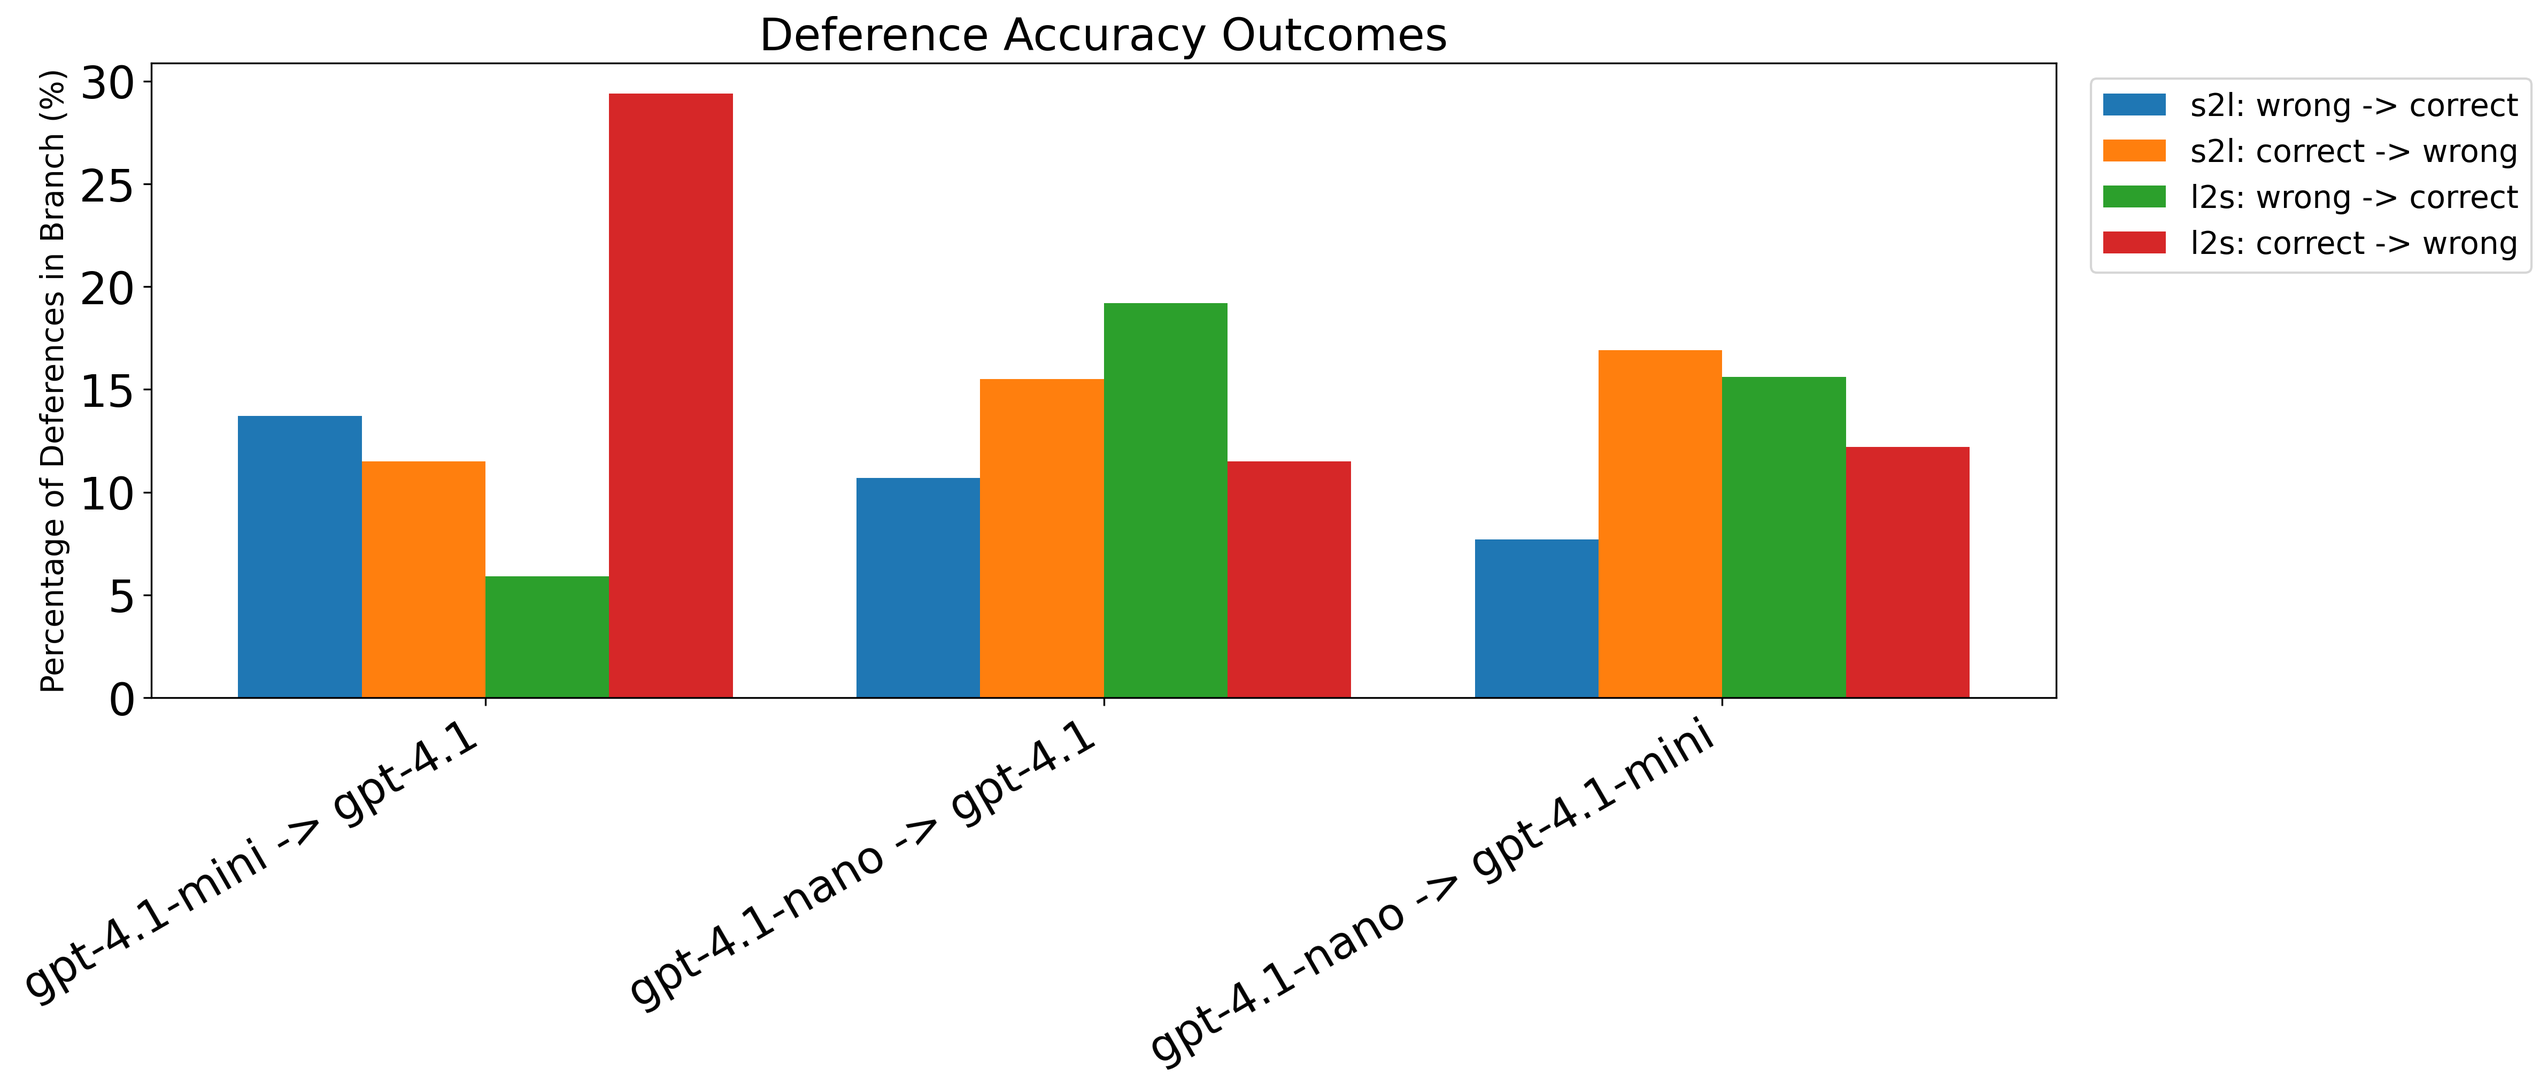
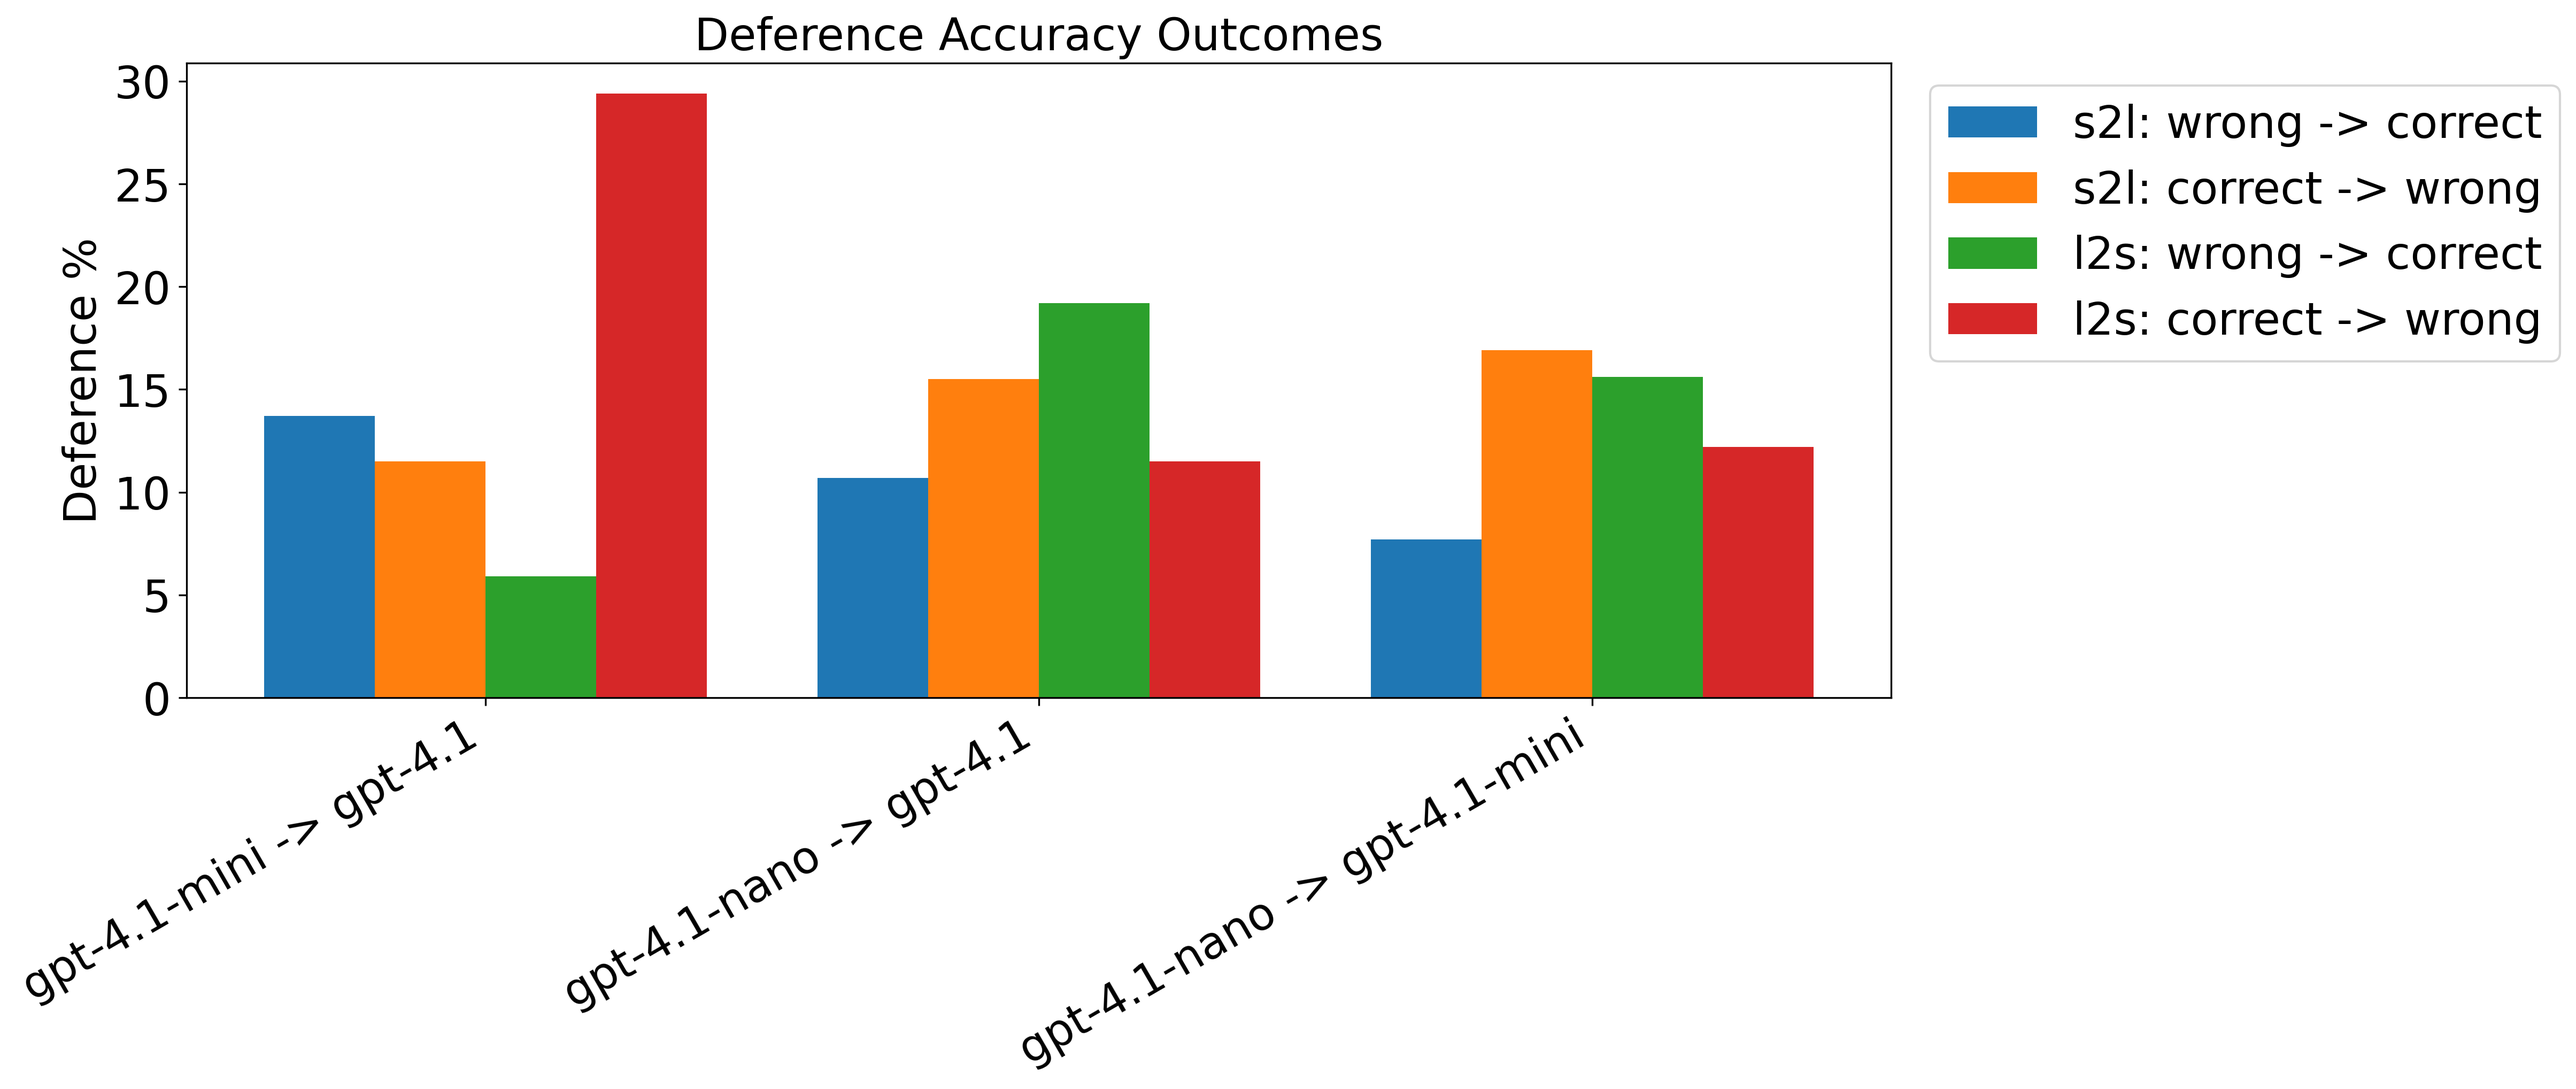
Adjusted Figures

diff --git a/Analysis_files/HLE_accuracy_plot.py b/Analysis_files/HLE_accuracy_plot.py
@@ -75,9 +75,9 @@ def plot_deference_direction(output_dir, out_path):
     plt.bar(x + width / 2, large_to_small, width, label="Large -> Small")
     plt.xticks(x, labels, rotation=30, ha="right", fontsize=20)
     plt.yticks(fontsize=20)
-    plt.ylabel("Disagreement %", fontsize=16)
+    plt.ylabel("Disagreement %", fontsize=20)
     plt.title("Direction of Deference", fontsize=20)
-    plt.legend(fontsize=14, loc='upper left', bbox_to_anchor=(1.01, 1))
+    plt.legend(fontsize=20, loc='upper left', bbox_to_anchor=(1.01, 1))
     plt.tight_layout(pad=1.5)
 
     os.makedirs(os.path.dirname(out_path), exist_ok=True)
@@ -107,9 +107,9 @@ def plot_deference_accuracy_outcomes(output_dir, out_path):
     plt.bar(x + 1.5 * width, l2s_c2w, width, label="l2s: correct -> wrong")
     plt.xticks(x, labels, rotation=30, ha="right", fontsize=20)
     plt.yticks(fontsize=20)
-    plt.ylabel("Percentage of Deferences in Branch (%)", fontsize=14)
+    plt.ylabel("Deference %", fontsize=20)
     plt.title("Deference Accuracy Outcomes", fontsize=20)
-    plt.legend(fontsize=14, loc='upper left', bbox_to_anchor=(1.01, 1))
+    plt.legend(fontsize=20, loc='upper left', bbox_to_anchor=(1.01, 1))
     plt.tight_layout(pad=1.5)
 
     os.makedirs(os.path.dirname(out_path), exist_ok=True)

diff --git a/Analysis_files/all_plots.py b/Analysis_files/all_plots.py
@@ -44,12 +44,12 @@ def plot_deference(data, out_path):
     width = 0.35
 
     plt.figure(figsize=(16, 7))
-    plt.bar(x - width / 2, small_to_large, width, label="Small → Large")
-    plt.bar(x + width / 2, large_to_small, width, label="Large → Small")
+    plt.bar(x - width / 2, small_to_large, width, label="Small -> Large")
+    plt.bar(x + width / 2, large_to_small, width, label="Large -> Small")
     plt.xticks(x, labels, rotation=30, ha="right", fontsize=20)
     plt.ylabel("Disagreement %", fontsize=20)
     plt.title("Direction of Disagreement", fontsize=20)
-    plt.legend(fontsize=16, loc='upper left', bbox_to_anchor=(1.01, 1))
+    plt.legend(fontsize=20, loc='upper left', bbox_to_anchor=(1.01, 1))
     plt.tight_layout(pad=1.5)
 
     os.makedirs(os.path.dirname(out_path), exist_ok=True)
